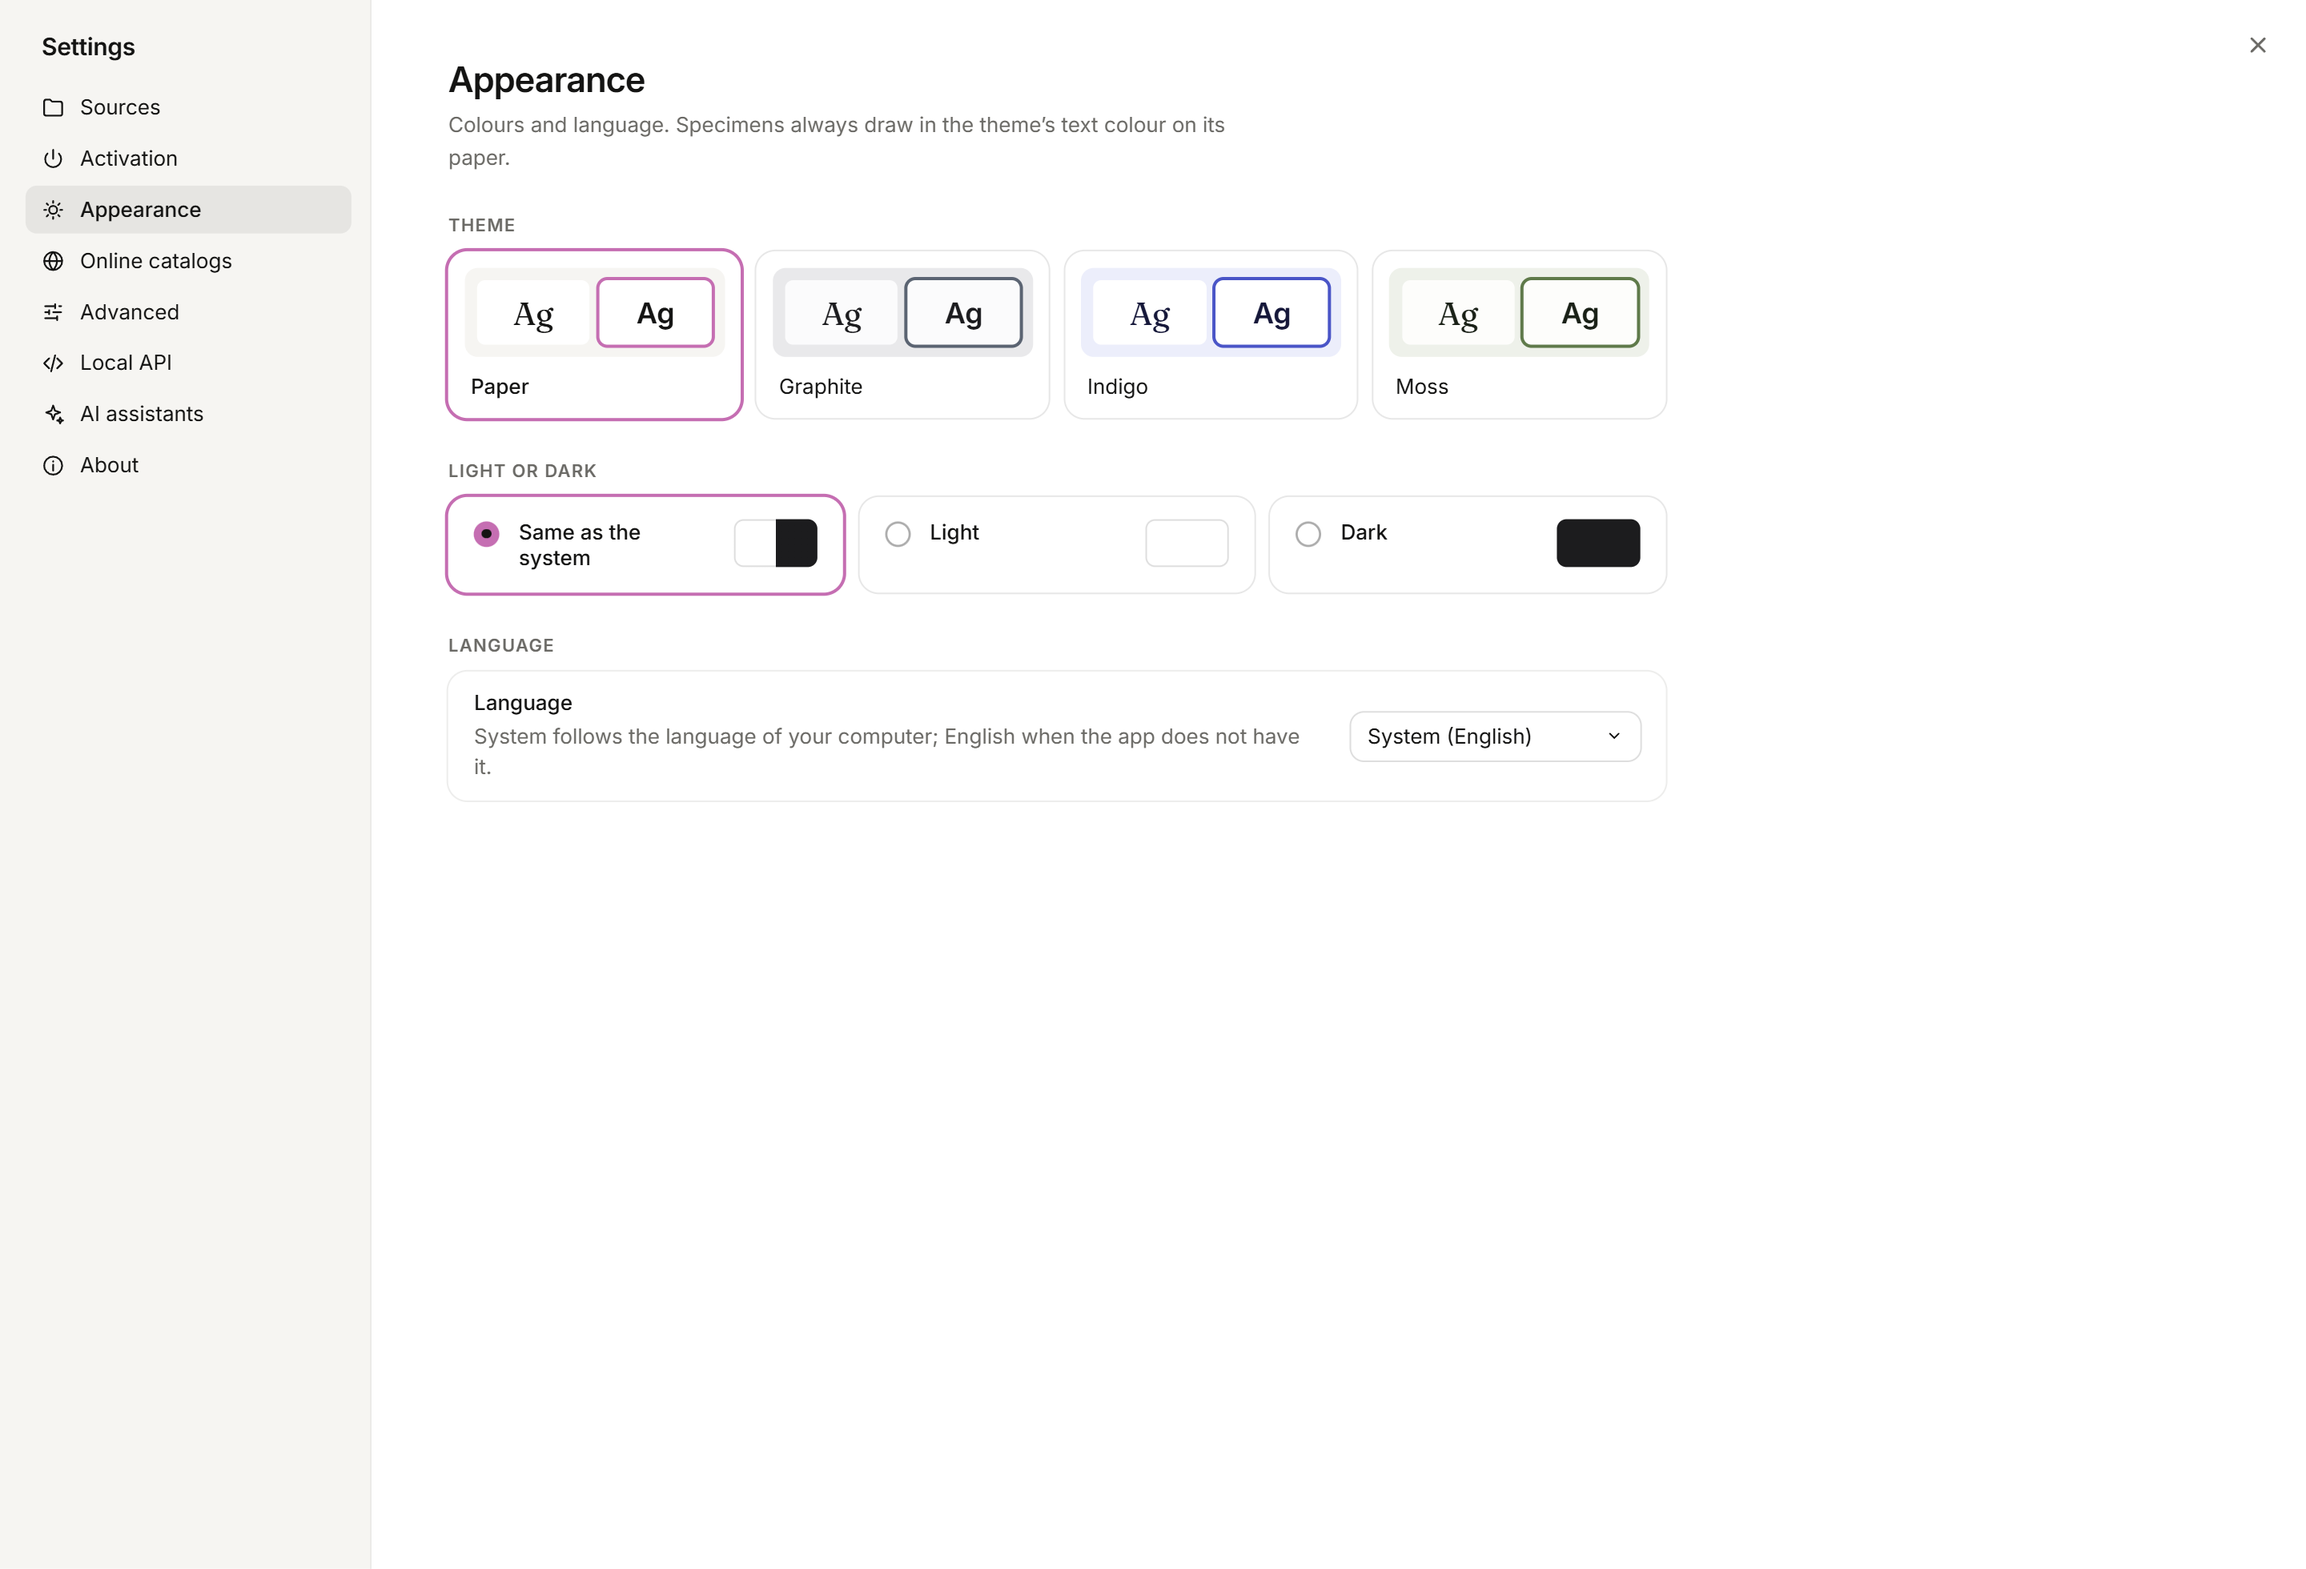
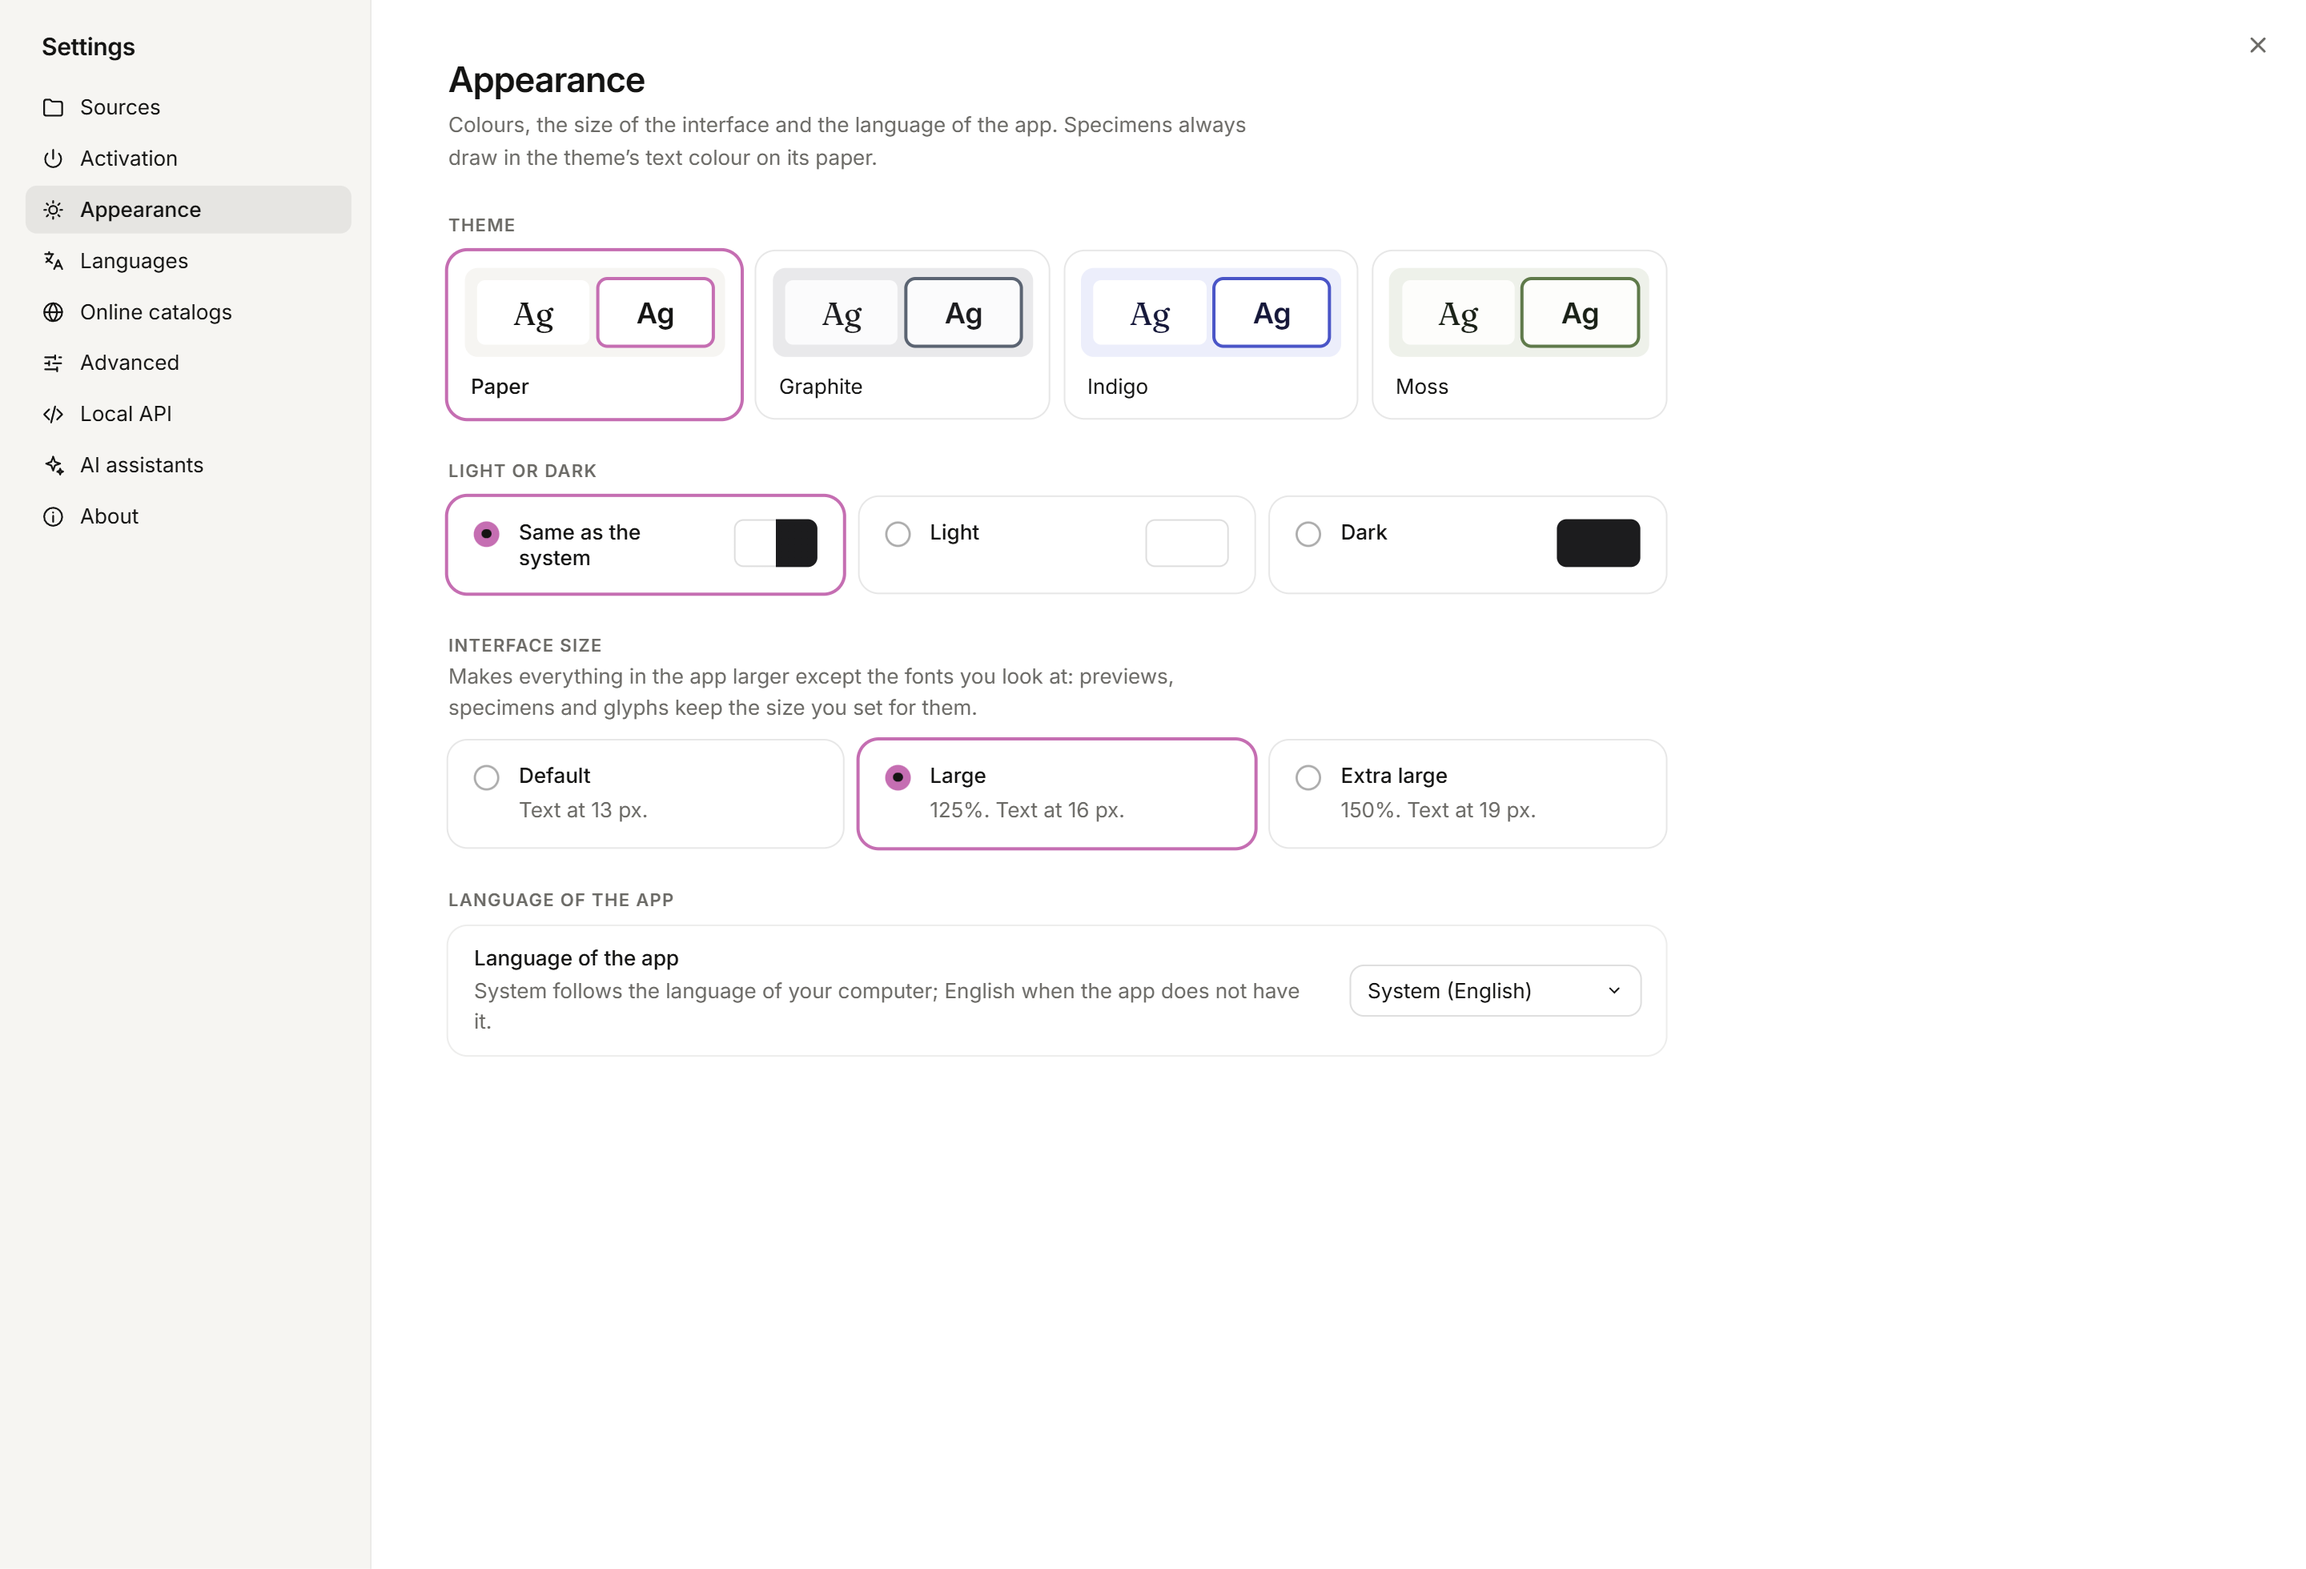
Add the E58 epic: your languages first, and three sizes of the interface
The nine E58 stories (one order of languages decided in the core, Settings >
Languages, the interface size and the panes that fold for it), their rules in
DESIGN.md, and the two board 15 images the stories cite: the new Languages
state and Appearance with the Interface size cards. The issue map follows
after the import.

Claude-Session: https://claude.ai/code/session_018t7pSA3U5S6ZAPDfh5ttYB

diff --git a/dev-docs/design/redesign/README.md b/dev-docs/design/redesign/README.md
@@ -12,7 +12,7 @@ Boards 1, 2 and 3 have several states. Each state is a Tweak, so an export is re
 3. **Share › Export** the board as PNG at 2× and save it under the file name in the table.
 4. Put the files in this folder; fill in the export date at the bottom.
 
-Boards 4, 5 and 6 have one state each: export them as they are. Board 7 (Compare) has three states, set by its height, mode and toast tweaks; board 8 (Letters) has four, set by its state tweak; boards 9–11 have one, three and one. Board 12 (Preview options) is 1120 px wide, so its exports are 2240 px; its two popover files are the popover alone, cropped (848 px). Board 14 (Duplicates) has nine states, set by its state tweak; its second board, the ways in, has one state and is 1280 px wide, so its export is 2560 px. Board 15 (Settings) has seven states and board 16 (Problems) two, each set by its state tweak.
+Boards 4, 5 and 6 have one state each: export them as they are. Board 7 (Compare) has three states, set by its height, mode and toast tweaks; board 8 (Letters) has four, set by its state tweak; boards 9–11 have one, three and one. Board 12 (Preview options) is 1120 px wide, so its exports are 2240 px; its two popover files are the popover alone, cropped (848 px). Board 14 (Duplicates) has nine states, set by its state tweak; its second board, the ways in, has one state and is 1280 px wide, so its export is 2560 px. Board 15 (Settings) has eight states and board 16 (Problems) two, each set by its state tweak.
 
 ## The files
 
@@ -74,7 +74,8 @@ Boards 4, 5 and 6 have one state each: export them as they are. Board 7 (Compare
 | `14-duplicates-rules.png` | 14 | state = Rules | the languages, the guard above the list, the rules in order, the preview before Save | E56.14 |
 | `14-duplicates-entry.png` | 14 · Duplicates: the ways in | — | "Duplicates" in the File menu (no sidebar row), the notice after a scan, the "copies" mark on a family, the command palette (the accent rings mark what is new and are not drawn in the app) | E56.15, E57 |
 | `15-settings-activation.png` | 15 · Settings | state = Activation | the shell with the x to close; choice cards for the activation mode and for name conflicts, setting rows with switches | E57.3, E57.4 |
-| `15-settings-appearance.png` | 15 | state = Appearance | theme cards, light or dark as three choice cards, the language row | E57.4 |
+| `15-settings-appearance.png` | 15 | state = Appearance | theme cards, light or dark as three choice cards, Interface size as three choice cards, the "Language of the app" row | E57.4, E58.8 |
+| `15-settings-languages.png` | 15 | state = Languages | "Languages I work in" as rows to reorder, "Then the rest" with the first ten and what is behind "Show more", the row that Duplicates uses the list too | E58.2 |
 | `15-settings-catalogs.png` | 15 | state = Online catalogs | catalog cards, the folder for installed fonts with its tree, the fetch-missing switch | E57.5 |
 | `15-settings-advanced.png` | 15 | state = Advanced | number rows with units, the logs folder, run setup again | E57.5 |
 | `15-settings-local-api.png` | 15 | state = Local API | the address, the masked token, regenerate | E57.6 |

diff --git a/dev-docs/redesign/DESIGN.md b/dev-docs/redesign/DESIGN.md
@@ -187,6 +187,28 @@ to be wrong, change the rule in this file *and* the code in the same iteration.
   version in one quiet panel; the state of updates is the title of its row. Nothing here is
   coloured but the accent on the chosen card and the switch that is on, and a failed change
   (the OS refused "Start at login"), which the row says in `--fm-danger`, not a toast.
+- **Languages (board 15, E58):** one list, "Languages I work in", kept under Settings >
+  Languages and used everywhere. The core answers every list of languages in one order: the
+  user's languages in the user's order, then the most used ones not picked
+  (`data/charsets/order.json`), then all others from A to Z; while none is picked, the
+  system's language leads. No component sorts languages. The section shows the list as rows
+  to reorder (handle, number, name, the language's distinctive letters, x to remove) with
+  "Add a language", and under it "Then the rest": what completes the first ten, and what is
+  behind "Show more". The filter drawer shows the first ten of the order and any chosen
+  language, as before; a menu of languages draws a hairline after the user's own. Duplicates
+  reads the same list and its module links here; the app's own language is "Language of the
+  app" under Appearance, never "Language" alone.
+- **Interface size (E58):** three sizes, Default, Large (125%) and Extra large (150%), chosen
+  as choice cards under Appearance. A size enlarges everything the app draws except the fonts
+  on show: a preview, a specimen, the waterfall, a glyph cell, Compare and the Studio paper
+  are drawn at exactly the size the user set, at every interface size. Every such surface
+  takes the zoom back through the one shared piece the ADR "Interface size" names; a surface
+  that scales a specimen by a rule of its own is a bug. The chrome around a specimen scales
+  with the interface (a card's label and actions), so a wall shows fewer columns at a larger
+  size. A larger interface is a smaller window: at 150% the smallest window has the room of
+  667 x 467, so the inspector, then the sidebar, fold by themselves when there is no room
+  and come back when there is, without touching what the user chose by hand. Boards and the
+  screenshots of UI stories are at the default size.
 - **Close (E57.8):** a full view or a panel closes with `UiIconButton` (icon `close`) at the
   end of its bar or in its top corner at the end of the line, named for what it closes, with
   Esc in its tooltip where Esc closes it. A text button "Close" in a top bar or a panel head
